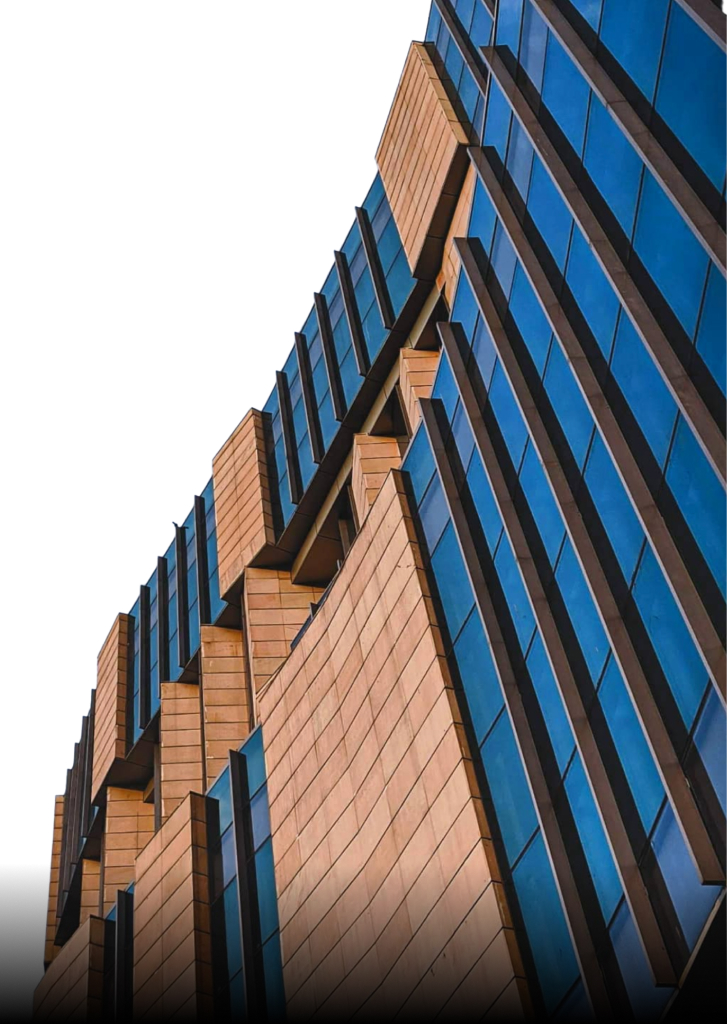
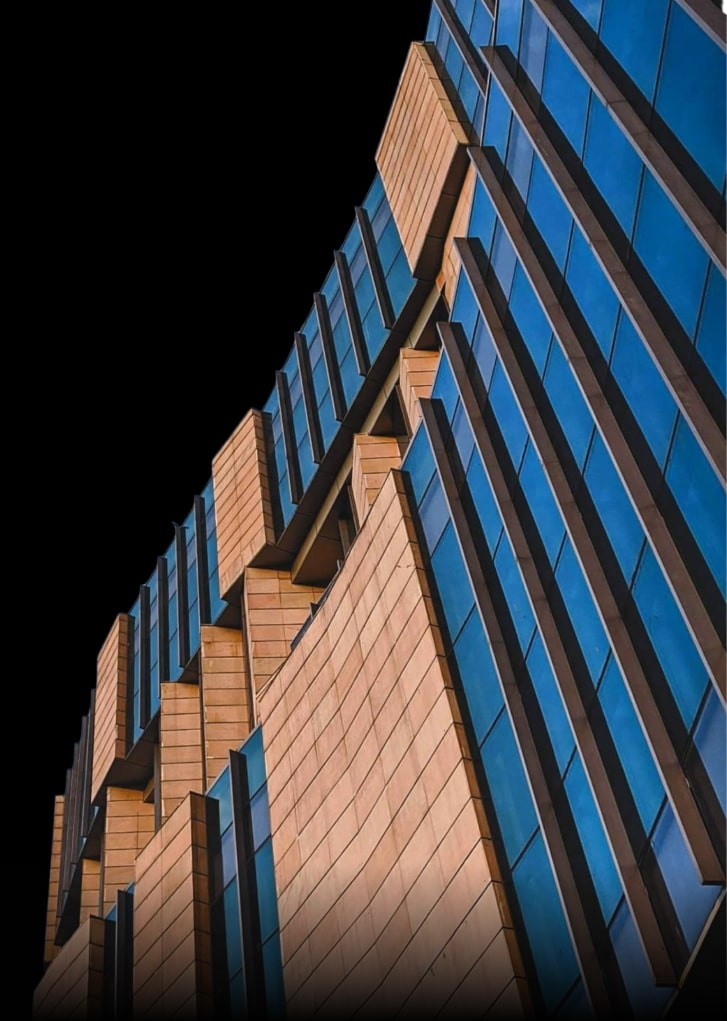
change bg from png to jpg

diff --git a/src/pages/Home.js b/src/pages/Home.js
@@ -1,10 +1,10 @@
 import '../scss/home.scss';
 import beginarrow from '../assets/begin-journey-arrow.svg';
-import Slideshow from '../components/Slideshow';
+//import Slideshow from '../components/Slideshow';
 import { Link } from 'react-scroll';
 import ImageCollage from '../components/ImageCollage';
 import Img from 'react-optimized-image';
-import backgroundImg from '../assets/home-bg.png';
+import backgroundImg from '../assets/home-bg.jpg';
 
 
 const Home = (props) => {
